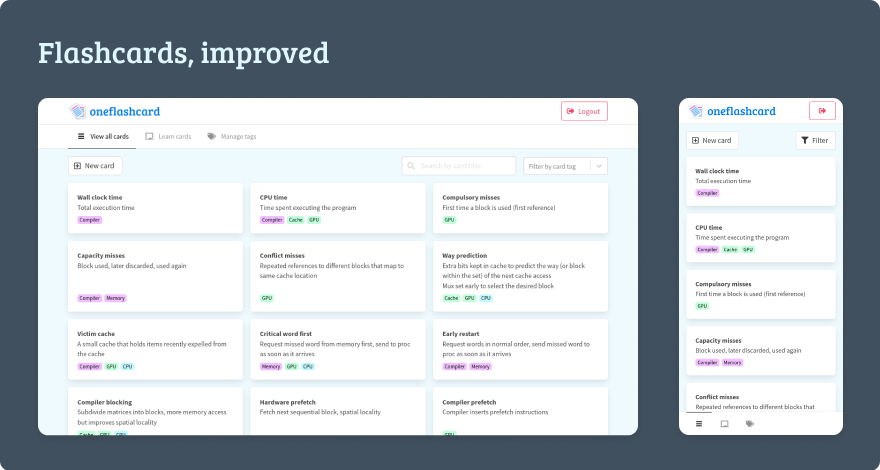
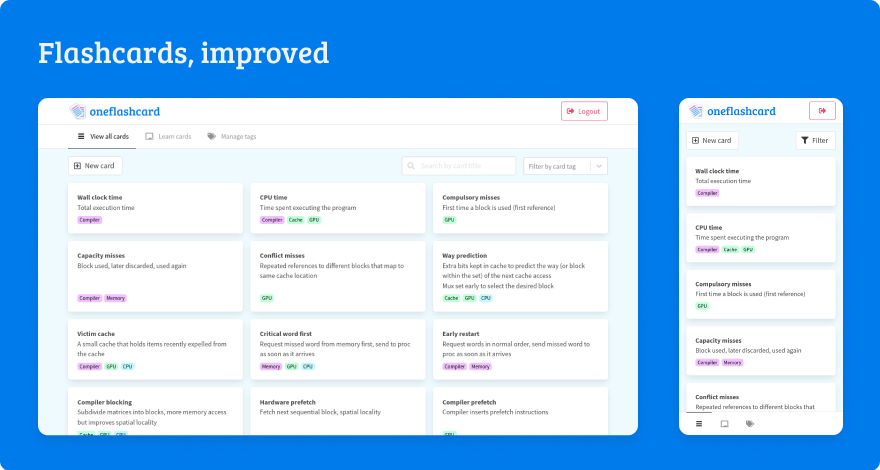
Update readme and images

diff --git a/README.md b/README.md
@@ -30,6 +30,12 @@ The **view all cards** tab allows you to view all of the cards that exist under 
 
 The **manage tags** tab allows you to modify tags by changing their text, color, or deleting them.
 
+## Responsive UI
+
+![](images/ui_mobile.png)
+
+The UI is fully responsive and adapts to tablet and mobile form factors.
+
 # Status
 
 This project is still in early stage development. Some (quite important) missing features are:
